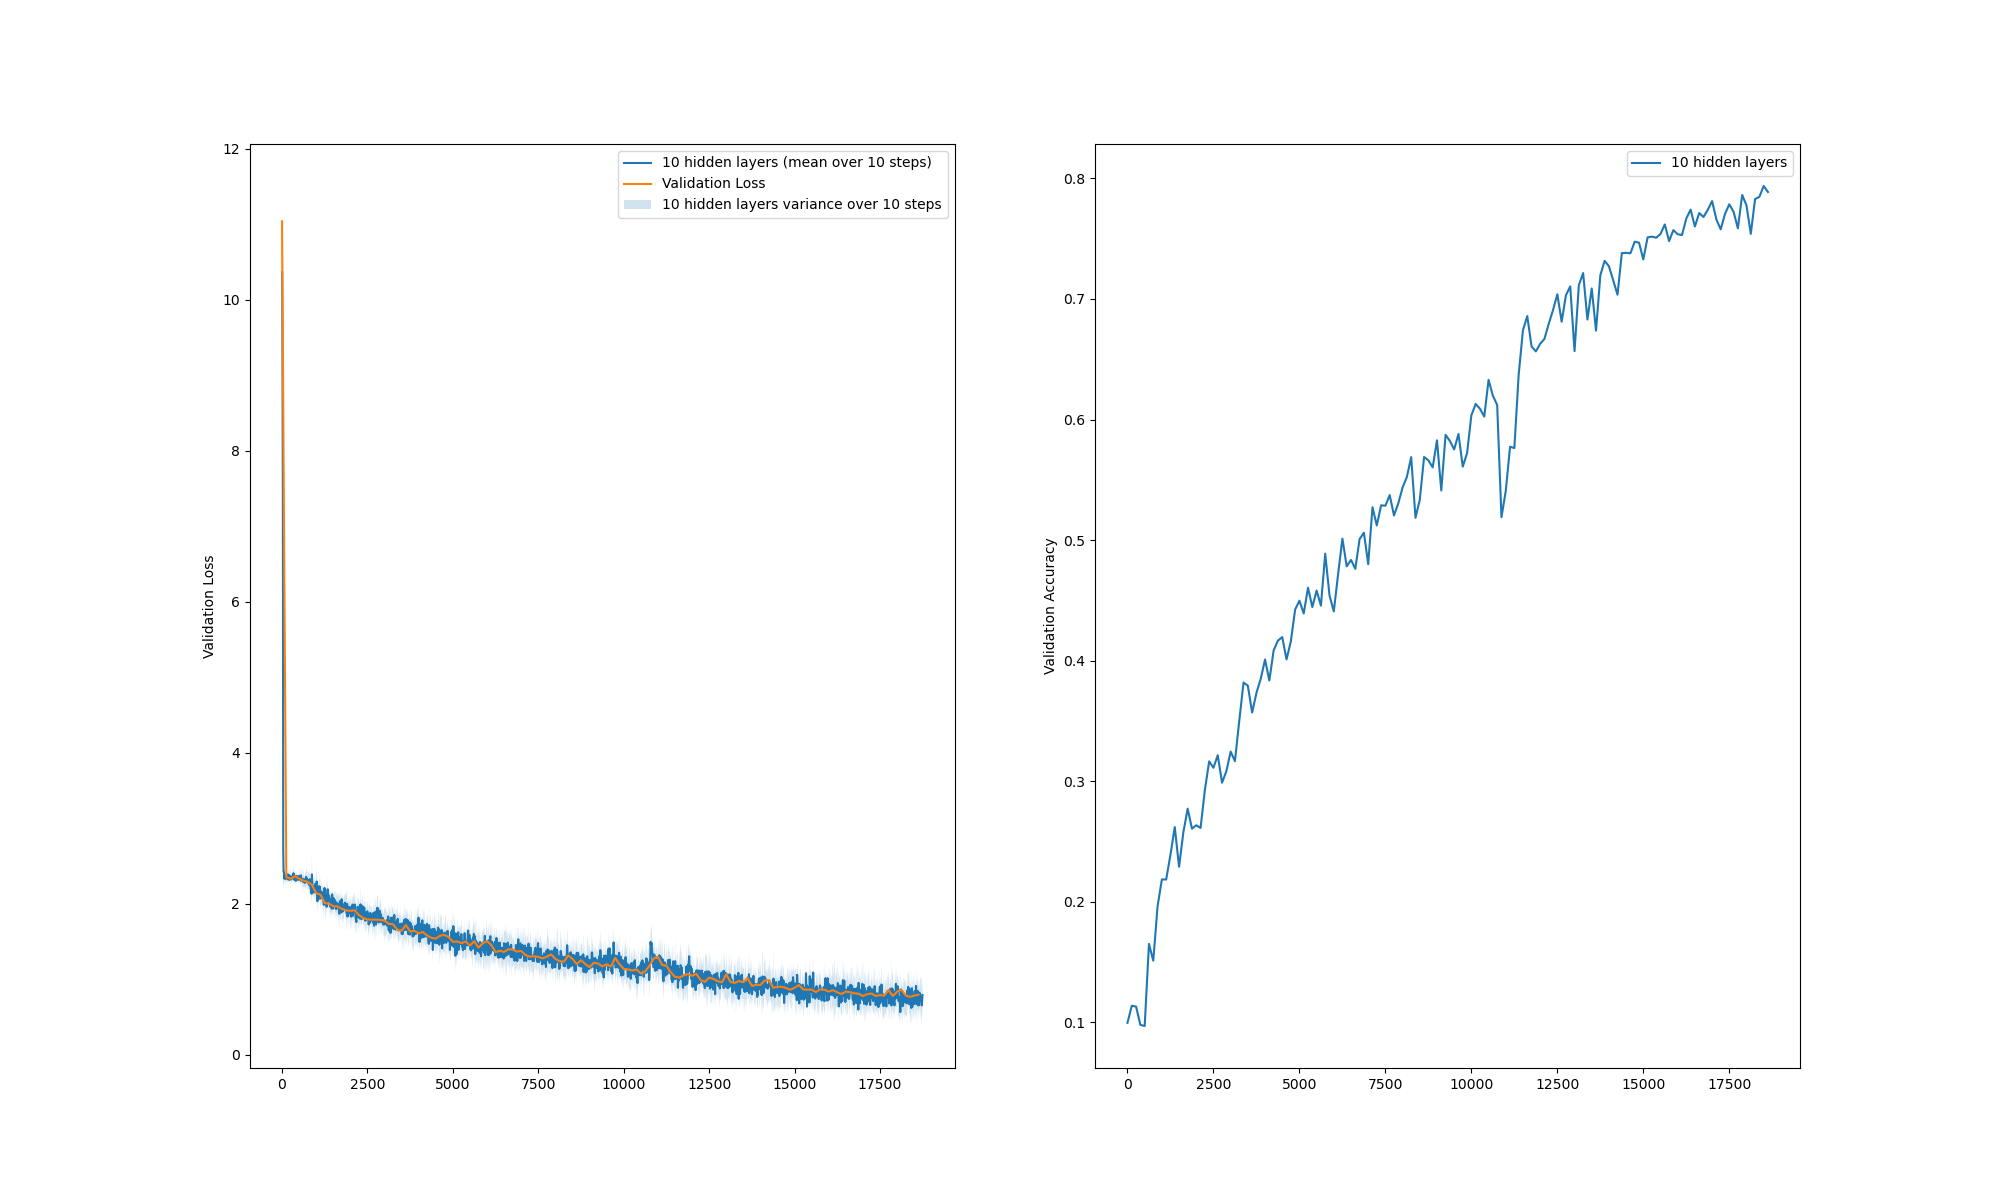
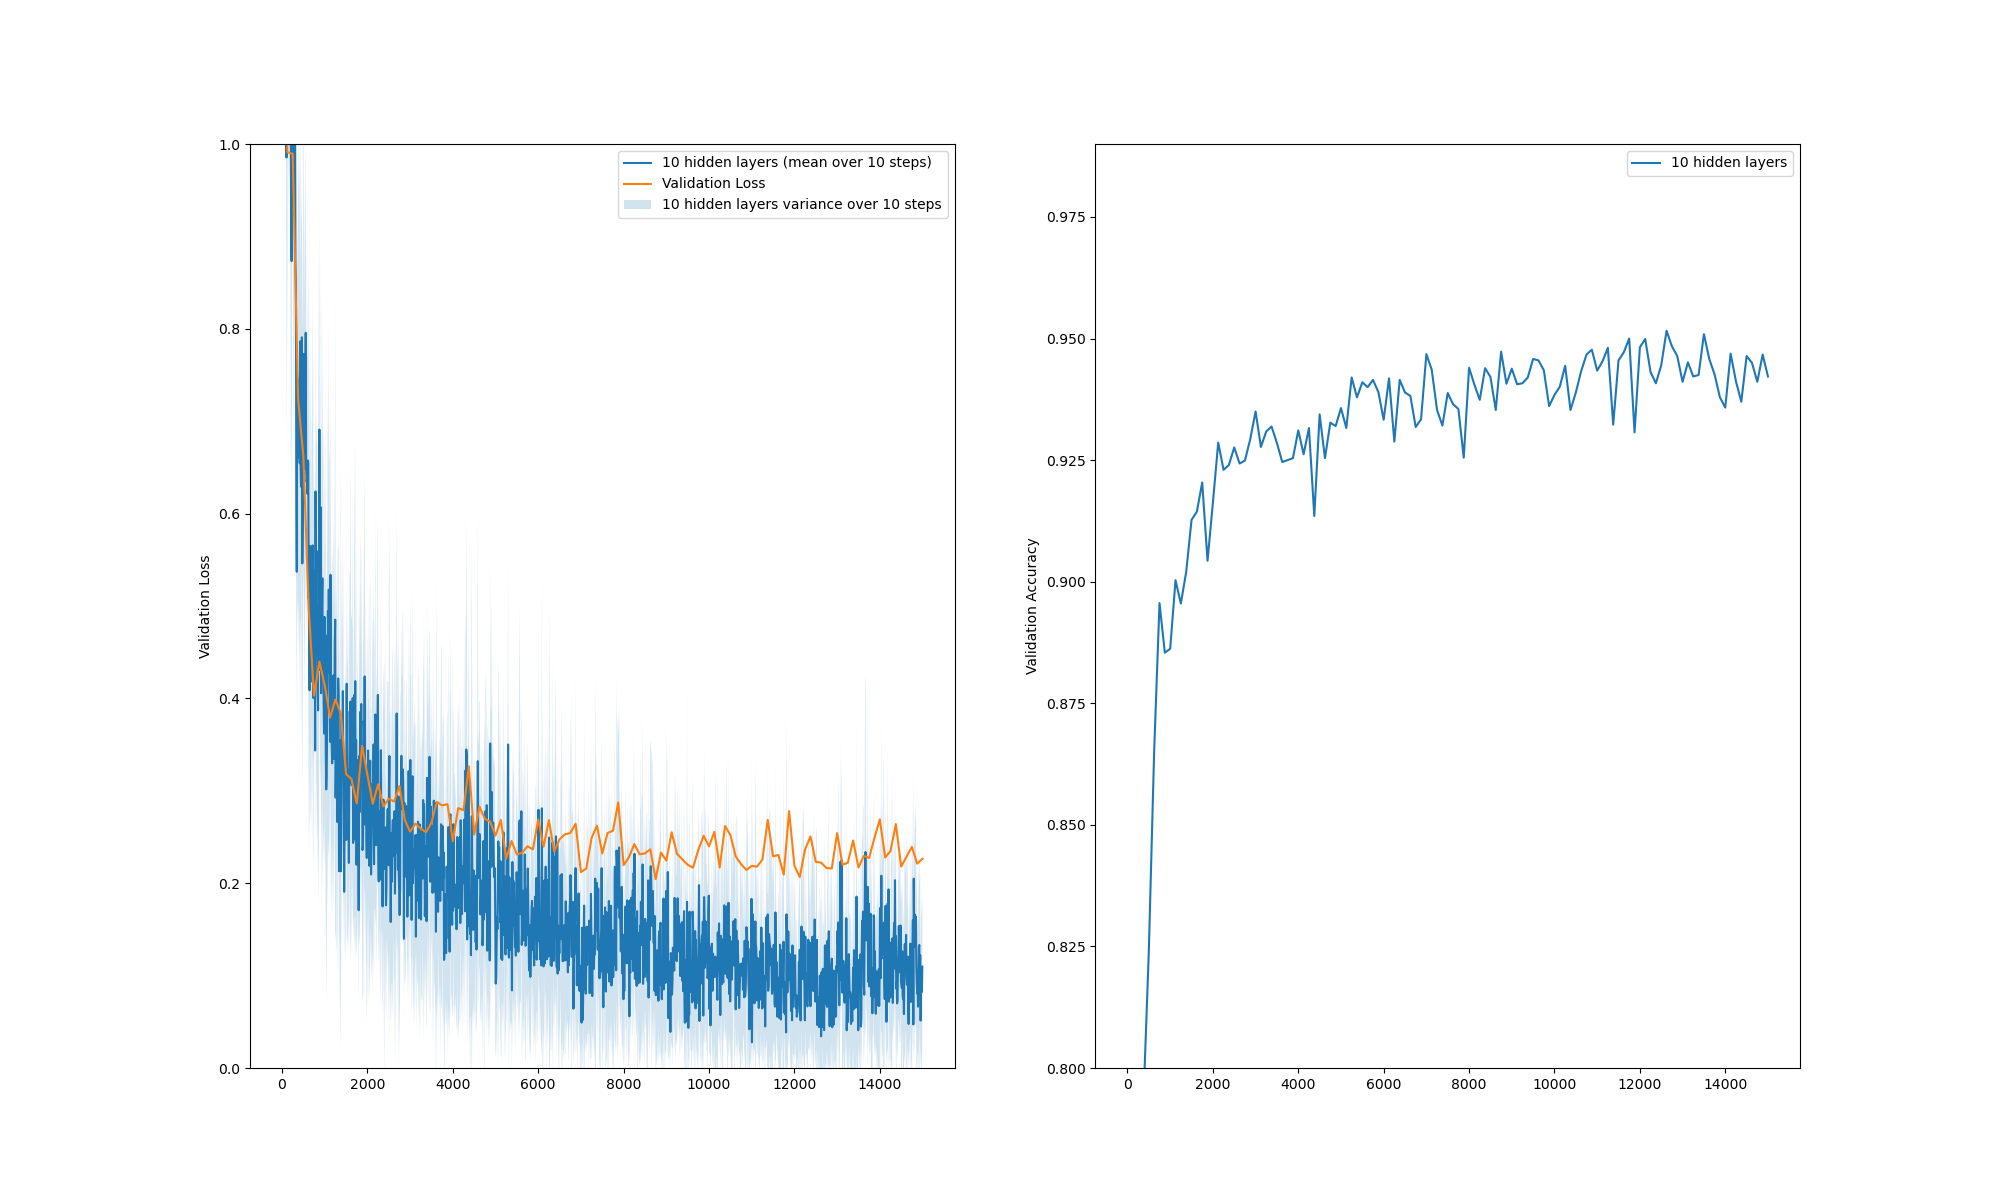
update

diff --git a/assignment2/task3.py b/assignment2/task3.py
@@ -14,9 +14,8 @@ if __name__ == "__main__":
     batch_size = 32
     neurons_per_layer = [64, 10]
     momentum_gamma = .9  # Task 3 hyperparameter
-    shuffle_data = True
 
-    use_improved_sigmoid = True
+    use_improved_sigmoid = False
     use_improved_weight_init = False
     use_momentum = False
 
@@ -27,13 +26,64 @@ if __name__ == "__main__":
     Y_train = one_hot_encode(Y_train, 10)
     Y_val = one_hot_encode(Y_val, 10)
 
-    # Example created in assignment text - Comparing with and without shuffling.
-    # YOU CAN DELETE EVERYTHING BELOW!
-
-    #Task 3 below
-
+    ##########################
+    # Shuffled vs unshuffled #
+    ##########################
     '''
+    shuffle_data = True
+    model = SoftmaxModel(
+        neurons_per_layer,
+        use_improved_sigmoid,
+        use_improved_weight_init)
+    trainer = SoftmaxTrainer(
+        momentum_gamma, use_momentum,
+        model, learning_rate, batch_size, shuffle_data,
+        X_train, Y_train, X_val, Y_val,
+    )
+    train_history_shuffled, val_history_shuffled = trainer.train(num_epochs)
     
+
+    shuffle_data = False
+    model_no_shuffle = SoftmaxModel(
+        neurons_per_layer,
+        use_improved_sigmoid,
+        use_improved_weight_init)
+    trainer_shuffle = SoftmaxTrainer(
+        momentum_gamma, use_momentum,
+        model_no_shuffle, learning_rate, batch_size, shuffle_data,
+        X_train, Y_train, X_val, Y_val,
+    )
+    train_history_unshuffled, val_history_unshuffled= trainer_shuffle.train(
+        num_epochs)
+
+    plt.figure(figsize=(20, 12))
+    plt.subplot(1, 2, 1)
+    utils.plot_loss(train_history_shuffled["loss"],
+                    "Shuffled", npoints_to_average=10)
+    utils.plot_loss(
+        train_history_unshuffled["loss"], "Unshuffled", npoints_to_average=10)
+    utils.plot_loss(val_history_shuffled["loss"],"Validation Loss Shuffled")
+    utils.plot_loss(val_history_unshuffled["loss"],"Validation Loss Unshuffled")
+    plt.ylabel("Loss")
+    plt.ylim([0, .4]) 
+    plt.legend()
+    plt.subplot(1, 2, 2)
+    plt.ylim([0.89, .99])
+    utils.plot_loss(
+        val_history_shuffled["accuracy"], "Shuffled")
+    utils.plot_loss(
+        val_history_unshuffled["accuracy"], "Unshuffled")
+    plt.ylabel("Validation Accuracy")
+    plt.legend()
+    plt.savefig("task3.png")
+    plt.show()
+    '''
+    #################
+    #Task 3 below   #
+    #################
+    '''
+    shuffle_data = True
+    use_improved_sigmoid= True
     model = SoftmaxModel(
         neurons_per_layer,
         use_improved_sigmoid,
@@ -82,10 +132,13 @@ if __name__ == "__main__":
     utils.plot_loss(train_history["loss"],
                     "Improved sigmoid", npoints_to_average=10)
     utils.plot_loss(
-        train_history_weights["loss"], "Improved weights", npoints_to_average=10)
+        train_history_weights["loss"], "Improved weights - training", npoints_to_average=10)
     utils.plot_loss(
-        train_history_final["loss"], "Using momentum", npoints_to_average=10)
-    plt.ylabel("Validation Loss")
+        train_history_final["loss"], "Using momentum - training", npoints_to_average=10)
+    utils.plot_loss(val_history_final["loss"],"Validation Loss Using Momentum")
+    utils.plot_loss(val_history_weights["loss"],"Validation Loss Using Improved weights")
+    utils.plot_loss(val_history["loss"],"Validation Loss Using Improved Sigmoid")
+    plt.ylabel("Cross entropy Loss")
     plt.ylim([0, .4]) 
     plt.legend()
     plt.subplot(1, 2, 2)
@@ -103,11 +156,12 @@ if __name__ == "__main__":
     plt.show()
     
     
+    '''
+    '''
     
-    
-    #############################
+    ##############################
     #Task 4 a and b below        #
-    #############################
+    ##############################
     #Model from task 3
     use_improved_sigmoid = True
     use_improved_weight_init = True
@@ -185,11 +239,14 @@ if __name__ == "__main__":
     plt.show()
 
     
-    
+    '''
     ###################
     # Task 4e)        #
     ###################
-    '''
+    shuffle_data = True
+    use_improved_sigmoid = True
+    use_improved_weight_init = True
+    use_momentum = True
     learning_rate_momentum = 0.02
     neurons_per_layer = [64,64,64,64,64,64,64,64,64,64,10]
     model_64_layers = SoftmaxModel(
@@ -202,11 +259,11 @@ if __name__ == "__main__":
         X_train, Y_train, X_val, Y_val,
     )
     train_history_64_layers, val_history_64_layers= trainer_shuffle.train(
-        num_epochs = 30)
+        num_epochs)
 
     plt.figure(figsize=(20, 12))
     plt.subplot(1, 2, 1)
-    #plt.ylim([0.00, 1.00])
+    plt.ylim([0.00, 1.00])
     utils.plot_loss(
         train_history_64_layers["loss"], "10 hidden layers", npoints_to_average=10)
     plt.ylabel("Training Loss")
@@ -216,7 +273,7 @@ if __name__ == "__main__":
     plt.legend()
 
     plt.subplot(1, 2, 2)
-    #plt.ylim([0.50, .99])
+    plt.ylim([0.80, .99])
     utils.plot_loss(
         val_history_64_layers["accuracy"], "10 hidden layers")
     plt.ylabel("Validation Accuracy")
